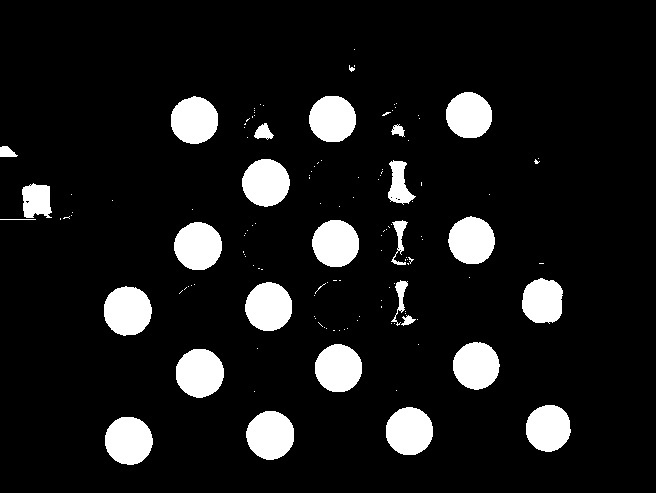
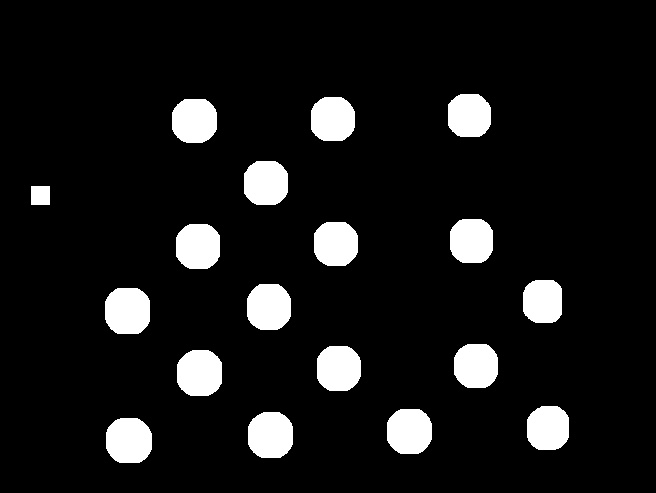
Stupid fault changed from getBothCircles.py, where wrong filter was used when eroding

diff --git a/VisionCode/getBothCircles.py b/VisionCode/getBothCircles.py
@@ -13,7 +13,7 @@ def main():
 	Then it will search for circles and will find only the RED circles.
 	'''
 	print(__doc__)
-
+        d_hc = [30, 10, 20, 30]
 	c_red = "red"
 	c_yellow = "yellow"
 
@@ -47,22 +47,25 @@ def main():
 	mask_yellow     = cv.inRange(hsv, lower_yellow, upper_yellow)
 #output for erode
 	red_erode       = cv.add(mask_red_low, mask_red_high)
+        cv.imshow("mask_yellow", mask_yellow)
         yellow_erode 	= mask_yellow
 #erode for better quality
         kernel = np.ones((5,5), np.uint8)
         red_erode       = cv.erode(red_erode, kernel, iterations = 4)
-        yellow_erode    = cv.erode(red_erode, kernel, iterations = 4)
-        for i in range(5): 
+        yellow_erode    = cv.erode(yellow_erode, kernel, iterations = 4)
+        cv.imshow("rip", yellow_erode)
+        for i in range(4): 
                 red_erode = cv.dilate(red_erode, kernel, iterations = 1)
-                red_erode = cv.bitwise_and(red_erode, out_red, mask = out_red)
+                #red_erode = cv.bitwise_and(red_erode, out_red, mask = out_red)
+        for i in range(4):
                 yellow_erode = cv.dilate(yellow_erode, kernel, iterations = 1)
-                yellow_erode = cv.bitwise_and(yellow_erode, out_yellow, mask = out_yellow)
+                #yellow_erode = cv.bitwise_and(yellow_erode, out_yellow, mask = out_yellow)
 #output mask for futher work
         out_red     = red_erode
         out_yellow  = yellow_erode
 #show the color image with mask.
 	res_red 	= cv.bitwise_and(blur, blur, mask = out_red)
-	res_yellow 	= cv.bitwise_and(blur, blur, mask = mask_yellow)
+	res_yellow 	= cv.bitwise_and(blur, blur, mask = out_yellow)
 #show image
 	cv.imshow("source", source)
 #	cv.imshow("mask_red-black/white", 		mask_red)
@@ -79,8 +82,9 @@ def main():
 	src_r = cv.imread(save_red)	
 	img_r = cv.medianBlur(cv.cvtColor(src_r, cv.COLOR_BGR2GRAY), 5)
 	cimg_r = src_r.copy() # numpy function
-	circles = cv.HoughCircles(img_r, cv.HOUGH_GRADIENT, 1, 10, np.array([]), 100, 10, 22, 30)
+	circles = cv.HoughCircles(img_r, cv.HOUGH_GRADIENT, 1, 10, np.array([]), d_hc[0], d_hc[1], d_hc[2], d_hc[3])
 	# Check if circles have been found and only then iterate over these and add them to the image
+        cir_red = src_r
 	if circles is not None and len(circles): 
 		print(circles)
 		a, b, c = circles.shape
@@ -93,8 +97,9 @@ def main():
 	src_y = cv.imread(save_yellow)	
 	img_y = cv.medianBlur(cv.cvtColor(src_y, cv.COLOR_BGR2GRAY), 5)
 	cimg_y = src_y.copy() # numpy function
-	circles2 = cv.HoughCircles(img_y, cv.HOUGH_GRADIENT, 1, 10, np.array([]), 100, 10, 20, 30)
-	if circles2 is not None and len(circles2): 
+	circles2 = cv.HoughCircles(img_y, cv.HOUGH_GRADIENT, 1, 10, np.array([]), d_hc[0], d_hc[1], d_hc[2], d_hc[3])
+	cir_yellow = src_y
+        if circles2 is not None and len(circles2): 
 		print(circles2)
 		a, b, c = circles2.shape
 		for i in range(b):
@@ -109,13 +114,13 @@ def main():
 #		print ("x:" + str(point_x) + " y:" + str(point_y))
 
 #make new arrays for both colors.
-		array1 = read_circles(circles, 	index_red)
-		array2 = read_circles(circles2, index_yellow)
+		#array1 = read_circles(circles, 	index_red)
+		#array2 = read_circles(circles2, index_yellow)
 #Show found circels and output on display
 	cv.imshow("detected circles red", 	cir_red)
 	cv.imshow("detected circles yellow", 	cir_yellow)
         cv.imshow("all", cv.add(cir_red, cir_yellow))
-	print_arrays(array1, array2, index_red, index_yellow)
+	#print_arrays(array1, array2, index_red, index_yellow)
 #End the program with ESC
 	while True:
 		k = cv.waitKey(5) & 0xFF
@@ -142,7 +147,7 @@ def print_arrays(array_r, array_y, index_r, index_y):
 	print("Colortype: Yellow. \tDiscs: " + str(index_y))
 	print_circles(array_y, index_y)
 	print("Total amount of discs: " + str(index_r + index_y))
-	if index_r > index_y :
+        if index_r > index_y:
 		print("Yellow is on set")
 	else:
 		print("Red is on set")
